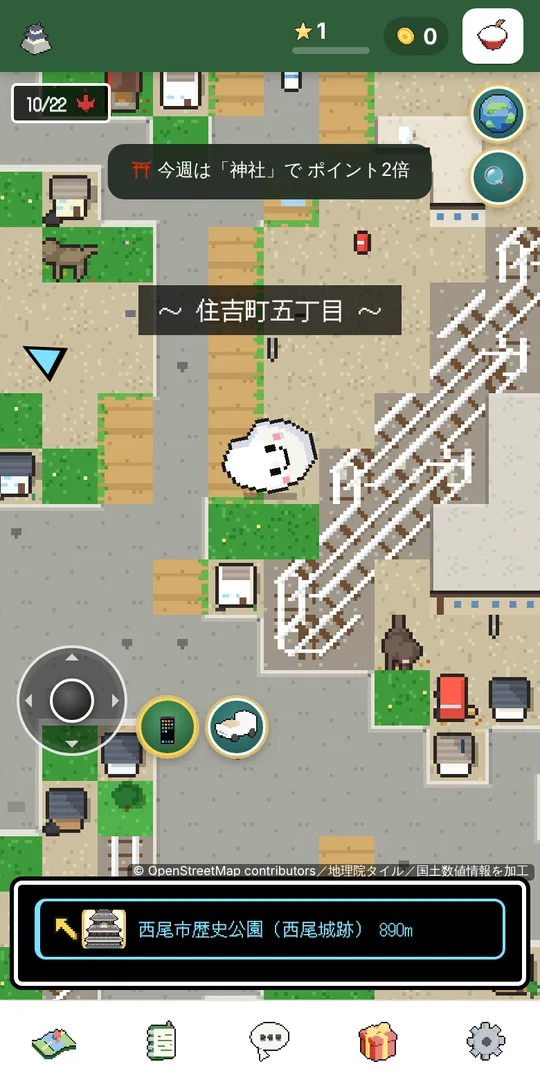
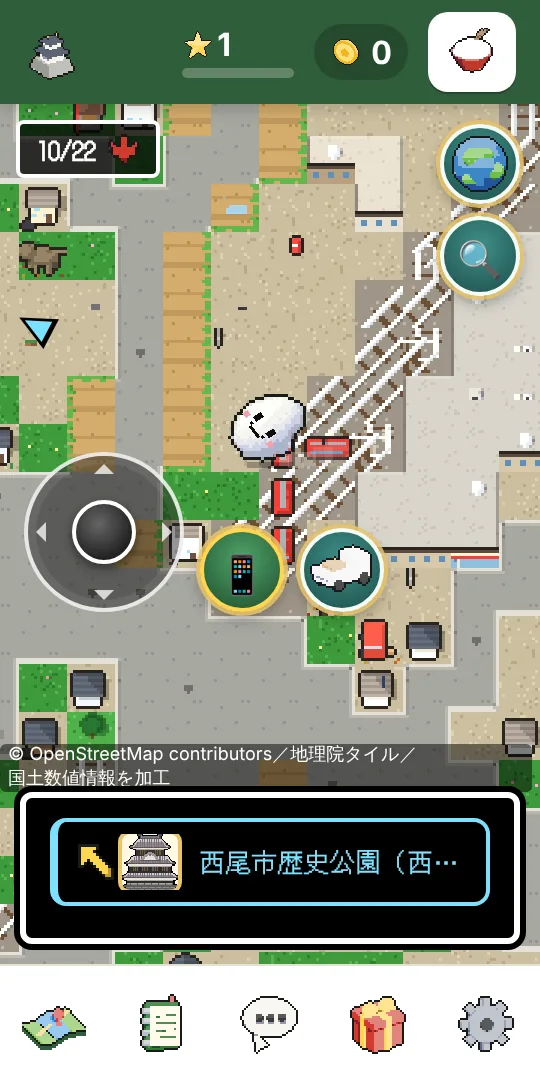
にしおさんぽGO：はじめの画面を新しく（丸いお米が坂を転がり下りる）・ricepia.jp のお知らせ欄も (#133)
- はじめの画面のアニメーション：丸く見える描き方で、台地から坂を ひとりでに速くなって転がり下り、あぜ道で止まって にっこり
- 紹介の文に「坂は本当の西尾の高低差」、遊んでいる画面の写真（shots/roll.webp）を丸いお米に撮りなおし
- ricepia-jp/game-section.html：「スマホを傾けて お米を転がすゲーム」に書きかえ（アップロードは deploy.txt で別に）

Claude-Session: https://claude.ai/code/session_01ELr6p8vy9BCj5YSPo2dWgF

diff --git a/nishio-go/game.js b/nishio-go/game.js
@@ -3410,40 +3410,61 @@ window.addEventListener('pagehide', sessionEnd);
 
 // はじめの画面の絵：お米が 田んぼの あぜ道を コロン、コロンと転がってきて、まん中で止まると ゆらゆらして こっちを見て にっこり、また転がっていく
 // （歩く地図と同じ お米の絵・同じ でこぼこの転がり方。pixel.js の riceSpin・riceFeel）。はじめの画面を閉じたら止める
+// はじめの画面のアニメーション：お米が 台地の上を ころころ進み、坂（本当の高低差のように）を ひとりでに速くなって転がり下りる。
+// 下で ぺたっ、田んぼの あぜ道で ゆっくり止まって、起き上がりこぼしのように ゆらゆら立って にっこり。また右へ転がっていく
 function introHero() {
   const cv = $('introHero');
   if (!cv || !cv.getContext) return;
-  const x = cv.getContext('2d'), img = new Image(), W = cv.width, H = cv.height, G0 = 62;   // G0：あぜ道の高さ
-  const st = { x: -20, ang: 0, av: 0, rest: 0, t: 0, last: 0 };
+  const x = cv.getContext('2d'), img = new Image(), W = cv.width, H = cv.height;
+  const TOP = 46, LOW = 62, S0 = 56, S1 = 96;   // 台地の高さ・下の あぜ道の高さ・坂のはじまりと おわり（点）
+  const gY = px => { const t = Math.min(1, Math.max(0, (px - S0) / (S1 - S0))); return TOP + (LOW - TOP) * t * t * (3 - 2 * t); };   // 地面の高さ
+  const K = 280, FR = 52, DRAG = 0.3, DRIVE = 32, LEAVE = 40;   // 坂の強さ・ころがり抵抗・空気・台地で押す速さ・出ていく速さ（点/秒）
+  const st = { x: -24, v: DRIVE, ang: 0, av: 0, rest: 0, mode: 'drive', sq: 0, sqv: 0, last: 0 };
   const scene = now => {
     const sky = x.createLinearGradient(0, 0, 0, 40);
     sky.addColorStop(0, '#8fd0f4'); sky.addColorStop(1, '#d8f0fb');
     x.fillStyle = sky; x.fillRect(0, 0, W, 40);
     x.fillStyle = '#7fa8c8'; x.fillRect(0, 30, W, 4);   // 遠くの山なみ
-    x.fillStyle = '#6dbb4c'; x.fillRect(0, 34, W, 22);   // 田んぼ
+    x.fillStyle = '#6dbb4c'; x.fillRect(0, 34, W, H - 34);   // 田んぼ（あぜ道の下まで）
     x.fillStyle = '#4f9a3e';
-    for (let r = 0; r < 4; r++) for (let c = 0; c < 20; c++) x.fillRect(((c * 8 + r * 4 - now / 90) % (W + 8) + W + 8) % (W + 8) - 4, 37 + r * 5, 3, 3);   // 稲（風で ゆれて流れる）
-    x.fillStyle = '#c8b078'; x.fillRect(0, 56, W, 16);   // あぜ道
-    x.fillStyle = '#b09860'; for (let c = 0; c < 20; c++) x.fillRect(c * 9 + 3, 64 + (c % 2) * 3, 3, 1);
+    for (let r = 0; r < 5; r++) for (let c = 0; c < 20; c++) x.fillRect(((c * 8 + r * 4 - now / 90) % (W + 8) + W + 8) % (W + 8) - 4, 37 + r * 5, 3, 3);   // 稲（風で ゆれて流れる）
+    for (let c = 0; c < W; c++) {   // 地面：台地の土手 → 坂 → 田んぼの あぜ道
+      const y = Math.round(gY(c + 0.5));
+      x.fillStyle = '#c8b078'; x.fillRect(c, y, 1, H - y);
+      if (y < LOW) {   // 台地の土手（高い所）：こい土の色に、等高線のような 点の線
+        x.fillStyle = '#a8905c'; x.fillRect(c, y + 3, 1, LOW + 3 - (y + 3));
+        x.fillStyle = '#86703f'; for (let k = 50; k < LOW + 3; k += 5) if (k > y + 3 && c % 3 !== 0) x.fillRect(c, k, 1, 1);
+        if (c < S0 && c % 7 === 2) { x.fillStyle = '#4f9a3e'; x.fillRect(c, y - 2, 2, 2); }   // 台地の上の草
+      }
+    }
+    x.fillStyle = '#b09860'; for (let c = 0; c < 20; c++) { const sx = c * 9 + 3; if (sx > S1) x.fillRect(sx, 64 + (c % 2) * 3, 3, 1); }
   };
   const step = now => {
     if ($('intro').hidden) return;
     const dt = Math.min(0.05, (now - (st.last || now)) / 1000);
     st.last = now;
-    const mid = W / 2, sp = 44;   // 点/秒
-    let dx = 0;
-    if (st.rest > 0) st.rest -= dt;
-    else { dx = sp * dt; st.x += dx; if (st.x >= mid && st.x - dx < mid) st.rest = 1.8; if (st.x > W + 24) st.x = -24; }
-    if (dx) { st.ang += dx / 9; st.av = sp / 9; }   // 進んだ分だけ回る（半径9点）
+    const x0 = st.x;
+    if (st.mode === 'drive') { st.x += DRIVE * dt; if (st.x >= S0 - 6) { st.mode = 'free'; st.v = DRIVE; } }   // 台地の上は 押して進む
+    else if (st.mode === 'free') {   // 坂：ひとりでに速くなり、下りきると ころがり抵抗で ゆっくり止まる
+      st.v += (K * (gY(st.x + 0.5) - gY(st.x - 0.5)) - FR - DRAG * st.v) * dt;
+      if (st.v <= 0) { st.v = 0; st.mode = 'rest'; st.rest = 2; }
+      else { st.x += st.v * dt; if (x0 < S1 && st.x >= S1) { st.sq = 0.14; st.sqv = 0; } }   // 下りきって ぺたっ
+    } else if (st.mode === 'rest') { st.rest -= dt; if (st.rest <= 0) st.mode = 'leave'; }
+    else { st.x += LEAVE * dt; if (st.x > W + 24) { st.x = -24; st.mode = 'drive'; } }
+    const dx = st.x - x0;
+    if (dx > 0.001) { st.ang += dx / 9; st.av = dx / 9 / Math.max(dt, 1e-3); }   // 進んだ分だけ回る（半径9点）
     else {   // 止まっている：起き上がりこぼし
       const up = Math.round(st.ang / (Math.PI * 2)) * Math.PI * 2;
       st.av += (up - st.ang) * 70 * dt; st.av *= Math.pow(0.86, dt * 60); st.ang += st.av * dt;
     }
+    st.sqv += (-st.sq * 260 - st.sqv * 14) * dt; st.sq += st.sqv * dt;   // つぶれの ばね
     scene(now);
-    if (img.complete && img.naturalWidth) {
-      const th = st.ang, low = Math.sqrt((10 * Math.sin(th)) ** 2 + (13.5 * Math.cos(th)) ** 2);   // たて長のつぶ：寝ころぶと低く
-      x.fillStyle = 'rgba(0,0,0,.25)'; x.fillRect(Math.round(st.x - 8), G0 + 1, 16, 2);
-      x.save(); x.translate(Math.round(st.x), Math.round(G0 - low)); x.rotate(th % (Math.PI * 2));
+    x.imageSmoothingEnabled = false;
+    const gy = gY(st.x), th = st.ang, low = Math.sqrt((10 * Math.sin(th)) ** 2 + (13.5 * Math.cos(th)) ** 2);   // たて長のつぶ：寝ころぶと低く
+    x.fillStyle = 'rgba(0,0,0,.25)'; x.fillRect(Math.round(st.x - 8), Math.round(gy) + 1, 16, 2);
+    const cy = gy - low * (1 - st.sq);
+    if (!(window.nishioPixel && nishioPixel.drawRice && nishioPixel.drawRice(x, st.x, cy, th % (Math.PI * 2), st.sq)) && img.complete && img.naturalWidth) {   // 丸く見える描き方（pixel.js）。読めるまでは 絵を回す
+      x.save(); x.translate(Math.round(st.x), Math.round(cy)); x.rotate(th % (Math.PI * 2));
       x.imageSmoothingEnabled = false; x.drawImage(img, 0, 0, 32, 32, -16, -16, 32, 32);
       x.restore();
     }

diff --git a/nishio-go/pixel.js b/nishio-go/pixel.js
@@ -1932,8 +1932,8 @@ function riceBallInit(src) {
   Object.assign(riceBall, { fill, face, cv, x: cv.getContext('2d', { willReadFrequently: true }), gx: (L + R + 1) / 2, gy: (T + B + 1) / 2, a: (R - L + 1) / 2, b: (B - T + 1) / 2,
     nx: R + 1.5, ny: T + (B - T) * 0.2 + 0.5, nr: (R - L) * 0.26 });   // 胚芽の くぼみ（tools/blender/rice.py と同じ場所）
 }
-// お米を描く：(X, Y) まん中（画面の点）・u：絵の1点の大きさ・th：回り・sx, sy：つぶれ・spin：くるくるの回り
-function drawRiceBall(X, Y, u, th, sx, sy, spin) {
+// お米を描く：(X, Y) まん中（画面の点）・u：絵の1点の大きさ・th：回り・sx, sy：つぶれ・spin：くるくるの回り・dst：描く先（はじめの画面のアニメーションにも使う）・gb：ゲームボーイの4色で
+function drawRiceBall(X, Y, u, th, sx, sy, spin, dst = ctx, gb = gbOn && !worldMode) {
   const rb = riceBall, o = rb.x, H = RB / 2, cs = Math.cos(spin), sn = Math.sin(spin);
   const bw = Math.sqrt(cs * cs + (0.88 * sn) ** 2), mx = cs < 0 ? -1 : 1, kx = sx * bw * mx;   // くるくる：横を向いても つぶの厚み（88%）は残る。うしろを向いたら くぼみは反対がわ
   o.setTransform(1, 0, 0, 1, 0, 0); o.clearRect(0, 0, RB, RB); o.imageSmoothingEnabled = true;   // なめらかに回してから、半分より濃い所を つぶにする（ふちが がたがたしない）
@@ -1941,7 +1941,7 @@ function drawRiceBall(X, Y, u, th, sx, sy, spin) {
   o.drawImage(rb.fill, -rb.gx, -rb.gy);
   o.setTransform(1, 0, 0, 1, 0, 0);
   const img = o.getImageData(0, 0, RB, RB), d = img.data, c = Math.cos(th), s = Math.sin(th), A = rb.a, Bb = rb.b, Cc = rb.a * 0.88;
-  const [lx0, ly0, lz0] = RICE_LIGHT, [hx, hy, hz] = RICE_HALF, gb = gbOn && !worldMode;
+  const [lx0, ly0, lz0] = RICE_LIGHT, [hx, hy, hz] = RICE_HALF;
   const solid = new Uint8Array(RB * RB);
   for (let j = 0; j < RB; j++) for (let i = 0; i < RB; i++) {
     const k = j * RB + i;
@@ -1976,12 +1976,12 @@ function drawRiceBall(X, Y, u, th, sx, sy, spin) {
     o.putImageData(g, 0, 0);
   }
   gbPause++;
-  try { ctx.drawImage(rb.cv, Math.round(X - H * u), Math.round(Y - H * u), RB * u, RB * u); } finally { gbPause--; }
+  try { dst.drawImage(rb.cv, Math.round(X - H * u), Math.round(Y - H * u), RB * u, RB * u); } finally { gbPause--; }
   if (cs > 0.12) {   // 顔は 画面の細かさで描く（点の大きさで回すと 目が くずれる）。くるくるのときは、つぶの まわりを すべって見える
-    ctx.save(); ctx.translate(Math.round(X), Math.round(Y)); ctx.scale(sx, sy); ctx.rotate(th);
-    ctx.translate(sn * rb.a * 0.7 * u, 0); ctx.scale(Math.max(0.25, cs), 1);
-    ctx.drawImage(rb.face, -rb.gx * u, -rb.gy * u, rb.face.width * u, rb.face.height * u);
-    ctx.restore();
+    dst.save(); dst.translate(Math.round(X), Math.round(Y)); dst.scale(sx, sy); dst.rotate(th);
+    dst.translate(sn * rb.a * 0.7 * u, 0); dst.scale(Math.max(0.25, cs), 1);
+    dst.drawImage(rb.face, -rb.gx * u, -rb.gy * u, rb.face.width * u, rb.face.height * u);
+    dst.restore();
   }
 }
 const riceFrame = () => riceSprites[facing][Math.floor(roll.d * 8) & 7];
@@ -6481,7 +6481,7 @@ try { initial = localStorage.getItem('nsg_view') || 'px'; worldOn = localStorage
 if (initial === 'px') { setActive(true); if (worldOn === '1') setWorld(true); }
 
 // テスト用
-window.nishioPixel = { critterSprite: id => critterSprites[id], critterStep, get roll() { return { on: rollOn, x: rp.x, y: rp.y, vx: rp.vx, vy: rp.vy, d: roll.d, ready: riceSprites.ready, kind: roll.kind, spin: roll.spin, h: roll.h, slope: rp.x === null ? null : slopeAt(rp.x, rp.y), height: rp.x === null ? null : heightAt(rp.x, rp.y), ground: Object.keys(GROUND).find(k => GROUND[k] === roll.gnd) || "" }; }, setRoll, setHeightFn: fn => { heightFn = fn || null; }, mapCovered, sightBusy,
+window.nishioPixel = { critterSprite: id => critterSprites[id], critterStep, get roll() { return { on: rollOn, x: rp.x, y: rp.y, vx: rp.vx, vy: rp.vy, d: roll.d, ready: riceSprites.ready, kind: roll.kind, spin: roll.spin, h: roll.h, slope: rp.x === null ? null : slopeAt(rp.x, rp.y), height: rp.x === null ? null : heightAt(rp.x, rp.y), ground: Object.keys(GROUND).find(k => GROUND[k] === roll.gnd) || "" }; }, drawRice: (dst, X, Y, th, sq = 0) => { if (!riceBall.cv) return false; drawRiceBall(X, Y, 1, th, 1 + sq, 1 - sq, 0, dst, false); return true; }, setRoll, setHeightFn: fn => { heightFn = fn || null; }, mapCovered, sightBusy,
   // いまの町名が新しいか（歩く地図を描いていて、いまの位置で2秒以内に確かめた。せかいちず・ふつうの地図に切り替えたあとの古い町名は使わない）
   get hereFresh() { return active && !worldMode && !!G.me && performance.now() - here.at < 2000; }, spotSprites, spriteOf: sp => spriteOf(sp)[0], npcSprite: look => (npcSprites[look] || npcSprites.man)[0], art: { hiCanvas, shopCanvas, tileRoof, spanRows, pix, genSprite, GEN_DRAW }, get towns() { return towns; }, get here() { return here; }, npcTile, rasterize, chunkQuery, chunkBox, chunkInPlay, luReady, luAt, unrle, overpass, toTile, toLatLng, codeAt, rawAt, C, CHUNK, chunks, setActive, centerOnMe, demFor, get worldMode() { return worldMode; }, merc, buildWorld, setWorld, llToW, WORLD_KEY, WW, WH, get world() { return world; }, get worldPois() { return worldPois; }, get worldLabels() { return worldLabels; }, get pois() { return poiCache.list; }, BUILDING_ART, get worldState() { return worldState; }, get areaBoxes() { return areaBoxes; }, get shopHits() { return shopHits; }, get chests() { return chests; }, get traffic() { return traffic; }, get driving() { return driving; }, toggleCar, floatText, onPaddy, get tapGoal() { return tapS.goal; }, trailWalk, trailHas, trailClear, get trailCells() { return TRAIL.world.size; }, get trailWorld() { return [...TRAIL.world]; },
   tileToClient(tx, ty) {   // 歩く地図のマスのまん中が、画面のどこか（台本でタップするため）

diff --git a/ricepia-jp/index.html b/ricepia-jp/index.html
@@ -4556,21 +4556,22 @@
   <div class="ng-inner">
     <img class="ng-logo" src="https://go.ricepia.jp/nishio-go/logo.svg" alt="にしおさんぽGO" width="544" height="80" loading="lazy">
     <span class="ng-tag">🧪 試作版</span>
-    <h2 id="nishio-go-title" class="sec-title">西尾のまちを歩いて、<br><span class="em">名所をめぐる</span>ゲーム。</h2>
-    <p class="sec-lead">名所に近づくとポイントが貯まるお散歩ゲームをつくりました。西尾城跡・岩瀬文庫・佐久島…そして らいすぴあ も名所のひとつです。</p>
+    <h2 id="nishio-go-title" class="sec-title">スマホを傾けて、<br><span class="em">お米を転がす</span>ゲーム。</h2>
+    <p class="sec-lead">主人公は、ひと粒のお米。スマホを傾けると、ドット絵の西尾のまちを ころころ転がります。坂は本当の西尾の高低差で、ひとりでに転がり下ります。名所に転がりこむとポイント。西尾城跡・岩瀬文庫・佐久島…そして らいすぴあ も名所のひとつです。</p>
     <ul class="ng-points">
+      <li>📱 傾けて ころころ</li>
+      <li>⛰ 本当の高低差の坂</li>
+      <li>🎁 たからばこと ドット絵</li>
       <li>📜 毎日かわる「今日のクエスト」</li>
-      <li>🎁 道ばたの たからばこ</li>
-      <li>🎮 家でも遊べる「操作モード」</li>
     </ul>
     <ul class="ng-shots" aria-label="プレイ画面">
-      <li><img src="https://go.ricepia.jp/nishio-go/shots/walk.webp" alt="ドット絵の西尾のまちを、主人公が歩いている画面" width="540" height="1080" loading="lazy"><span>西尾を歩く</span></li>
+      <li><img src="https://go.ricepia.jp/nishio-go/shots/roll.webp" alt="ドット絵の西尾のまちを、お米が ころころ転がっている画面" width="540" height="1080" loading="lazy"><span>お米を転がす</span></li>
       <li><img src="https://go.ricepia.jp/nishio-go/shots/reward.webp" alt="たからばこを開けて、名鉄の電車のドット絵をもらった画面" width="540" height="1080" loading="lazy"><span>ドット絵をあつめる</span></li>
       <li><img src="https://go.ricepia.jp/nishio-go/shots/world.webp" alt="西尾市と となりの市町の、名所が並んだ地図の画面" width="540" height="1080" loading="lazy"><span>名所をめぐる</span></li>
       <li><img src="https://go.ricepia.jp/nishio-go/shots/badges.webp" alt="神社めぐり・お寺めぐりなどのバッジが並んだ画面" width="540" height="1080" loading="lazy"><span>バッジをそろえる</span></li>
     </ul>
     <a class="ng-btn" href="https://go.ricepia.jp/?utm_source=ricepia.jp&amp;utm_medium=referral&amp;utm_campaign=homepage" target="_blank" rel="noopener">▶ あそんでみる</a>
-    <p class="ng-note">スマホのブラウザで遊べます（アプリのインストールは不要・無料）。<br>歩いて遊ぶときは、まわりの安全に気をつけてください。</p>
+    <p class="ng-note">スマホのブラウザで遊べます（アプリのインストールは不要・無料）。<br>歩きスマホ・傾けながら歩くのは やめて、立ち止まって遊んでください。</p>
   </div>
 </section>
 <!-- nishio-go:end -->

diff --git a/ricepia-jp/game-section.html b/ricepia-jp/game-section.html
@@ -24,21 +24,22 @@
   <div class="ng-inner">
     <img class="ng-logo" src="https://go.ricepia.jp/nishio-go/logo.svg" alt="にしおさんぽGO" width="544" height="80" loading="lazy">
     <span class="ng-tag">🧪 試作版</span>
-    <h2 id="nishio-go-title" class="sec-title">西尾のまちを歩いて、<br><span class="em">名所をめぐる</span>ゲーム。</h2>
-    <p class="sec-lead">名所に近づくとポイントが貯まるお散歩ゲームをつくりました。西尾城跡・岩瀬文庫・佐久島…そして らいすぴあ も名所のひとつです。</p>
+    <h2 id="nishio-go-title" class="sec-title">スマホを傾けて、<br><span class="em">お米を転がす</span>ゲーム。</h2>
+    <p class="sec-lead">主人公は、ひと粒のお米。スマホを傾けると、ドット絵の西尾のまちを ころころ転がります。坂は本当の西尾の高低差で、ひとりでに転がり下ります。名所に転がりこむとポイント。西尾城跡・岩瀬文庫・佐久島…そして らいすぴあ も名所のひとつです。</p>
     <ul class="ng-points">
+      <li>📱 傾けて ころころ</li>
+      <li>⛰ 本当の高低差の坂</li>
+      <li>🎁 たからばこと ドット絵</li>
       <li>📜 毎日かわる「今日のクエスト」</li>
-      <li>🎁 道ばたの たからばこ</li>
-      <li>🎮 家でも遊べる「操作モード」</li>
     </ul>
     <ul class="ng-shots" aria-label="プレイ画面">
-      <li><img src="https://go.ricepia.jp/nishio-go/shots/walk.webp" alt="ドット絵の西尾のまちを、主人公が歩いている画面" width="540" height="1080" loading="lazy"><span>西尾を歩く</span></li>
+      <li><img src="https://go.ricepia.jp/nishio-go/shots/roll.webp" alt="ドット絵の西尾のまちを、お米が ころころ転がっている画面" width="540" height="1080" loading="lazy"><span>お米を転がす</span></li>
       <li><img src="https://go.ricepia.jp/nishio-go/shots/reward.webp" alt="たからばこを開けて、名鉄の電車のドット絵をもらった画面" width="540" height="1080" loading="lazy"><span>ドット絵をあつめる</span></li>
       <li><img src="https://go.ricepia.jp/nishio-go/shots/world.webp" alt="西尾市と となりの市町の、名所が並んだ地図の画面" width="540" height="1080" loading="lazy"><span>名所をめぐる</span></li>
       <li><img src="https://go.ricepia.jp/nishio-go/shots/badges.webp" alt="神社めぐり・お寺めぐりなどのバッジが並んだ画面" width="540" height="1080" loading="lazy"><span>バッジをそろえる</span></li>
     </ul>
     <a class="ng-btn" href="https://go.ricepia.jp/?utm_source=ricepia.jp&amp;utm_medium=referral&amp;utm_campaign=homepage" target="_blank" rel="noopener">▶ あそんでみる</a>
-    <p class="ng-note">スマホのブラウザで遊べます（アプリのインストールは不要・無料）。<br>歩いて遊ぶときは、まわりの安全に気をつけてください。</p>
+    <p class="ng-note">スマホのブラウザで遊べます（アプリのインストールは不要・無料）。<br>歩きスマホ・傾けながら歩くのは やめて、立ち止まって遊んでください。</p>
   </div>
 </section>
 <!-- nishio-go:end -->

diff --git a/nishio-go.html b/nishio-go.html
@@ -319,9 +319,9 @@
     <h1 class="logo"><img src="nishio-go/logo.svg" alt="にしおさんぽGO" width="544" height="80"/></h1>
     <p class="player-count" id="playerCount" hidden></p>
     <p class="player-count voice-intro" id="voiceIntro" hidden></p>
-    <canvas class="intro-roll" id="introHero" width="160" height="72" role="img" aria-label="お米が 田んぼの あぜ道を ころころ転がって、にっこり"></canvas>
+    <canvas class="intro-roll" id="introHero" width="160" height="72" role="img" aria-label="お米が 台地から 坂を ころころ転がり下りて、田んぼの あぜ道で にっこり"></canvas>
     <p class="tagline">お米を ころころ 転がして、西尾をめぐろう</p>
-    <p class="pitch"><b>🍚 スマホを傾けると、お米が ころころ転がる。</b><br/>西尾の名所に転がりこむとポイント。たからばこと、西尾ならではのドット絵が集まります。まちの人の話が、次の行き先をすすめてくれます。</p>
+    <p class="pitch"><b>🍚 スマホを傾けると、お米が ころころ転がる。</b><br/>坂は 本当の西尾の高低差で、ひとりでに転がり下ります。西尾の名所に転がりこむとポイント。たからばこと、西尾ならではのドット絵が集まります。まちの人の話が、次の行き先をすすめてくれます。</p>
     <p class="mode-q">遊びかたをえらんでください（あとから切り替えられます）</p>
     <button type="button" class="btn big mode-pick" id="demoBtn"><span class="mp-t">📱 傾けて遊ぶ</span><small>スマホを傾けると お米が ころころ。家からでも西尾めぐり</small></button>
     <button type="button" class="btn big mode-pick alt" id="startBtn"><span class="mp-t">🚶 あるいて遊ぶ</span><small>位置情報を使って、実際に西尾のまちを歩きます（お米が ついて転がる）</small></button>

diff --git a/docs/korokoro.md b/docs/korokoro.md
@@ -154,3 +154,15 @@
 - **くるくる**：横を向いても つぶの厚み（88%）は残す。顔は つぶの まわりを すべって、うしろへ回ると見えなくなる（うしろ姿では くぼみが反対がわ）
 - ゲームボーイの4色でも、同じ影を4色で描く（絵が毎回かわるので、4色にする処理は ここで行う）
 - 確かめたこと：`tools/playtest.js` は ok（errors・failures なし）。止まっている・よちよち・くるくる・ころころ・ぴょん・ゲームボーイの4色を 画面で見た
+
+## 第8段（2026年10月）：はじめの画面と ricepia.jp を新しく
+
+運営者の指示：「トップを更新」「ricepia.jp も更新」
+
+- **はじめの画面のアニメーション**（`game.js` の `introHero`）：
+  - お米を 丸く見える描き方（`pixel.js` の `drawRiceBall` を `nishioPixel.drawRice` で使う）にした
+  - お米が 台地の上を ころころ進み、坂で ひとりでに速くなって転がり下りる。下で ぺたっとつぶれ、あぜ道で ゆっくり止まって にっこり。また右へ転がっていく
+  - 台地の土手には、等高線のような 点の線
+- **紹介の文**：「坂は 本当の西尾の高低差で、ひとりでに転がり下ります」を足した
+- **遊んでいる画面の写真**（`shots/roll.webp`）：丸いお米が転がる所に撮りなおした。本当の標高は この環境から取れないので、等高線と標高の札は写していない（作った地形を 本物のように見せないため）
+- **ricepia.jp のお知らせ欄**（`ricepia-jp/game-section.html`）：「西尾のまちを歩いて 名所をめぐるゲーム」から「スマホを傾けて お米を転がすゲーム」に書きかえ、写真の1枚めを `roll.webp` に
